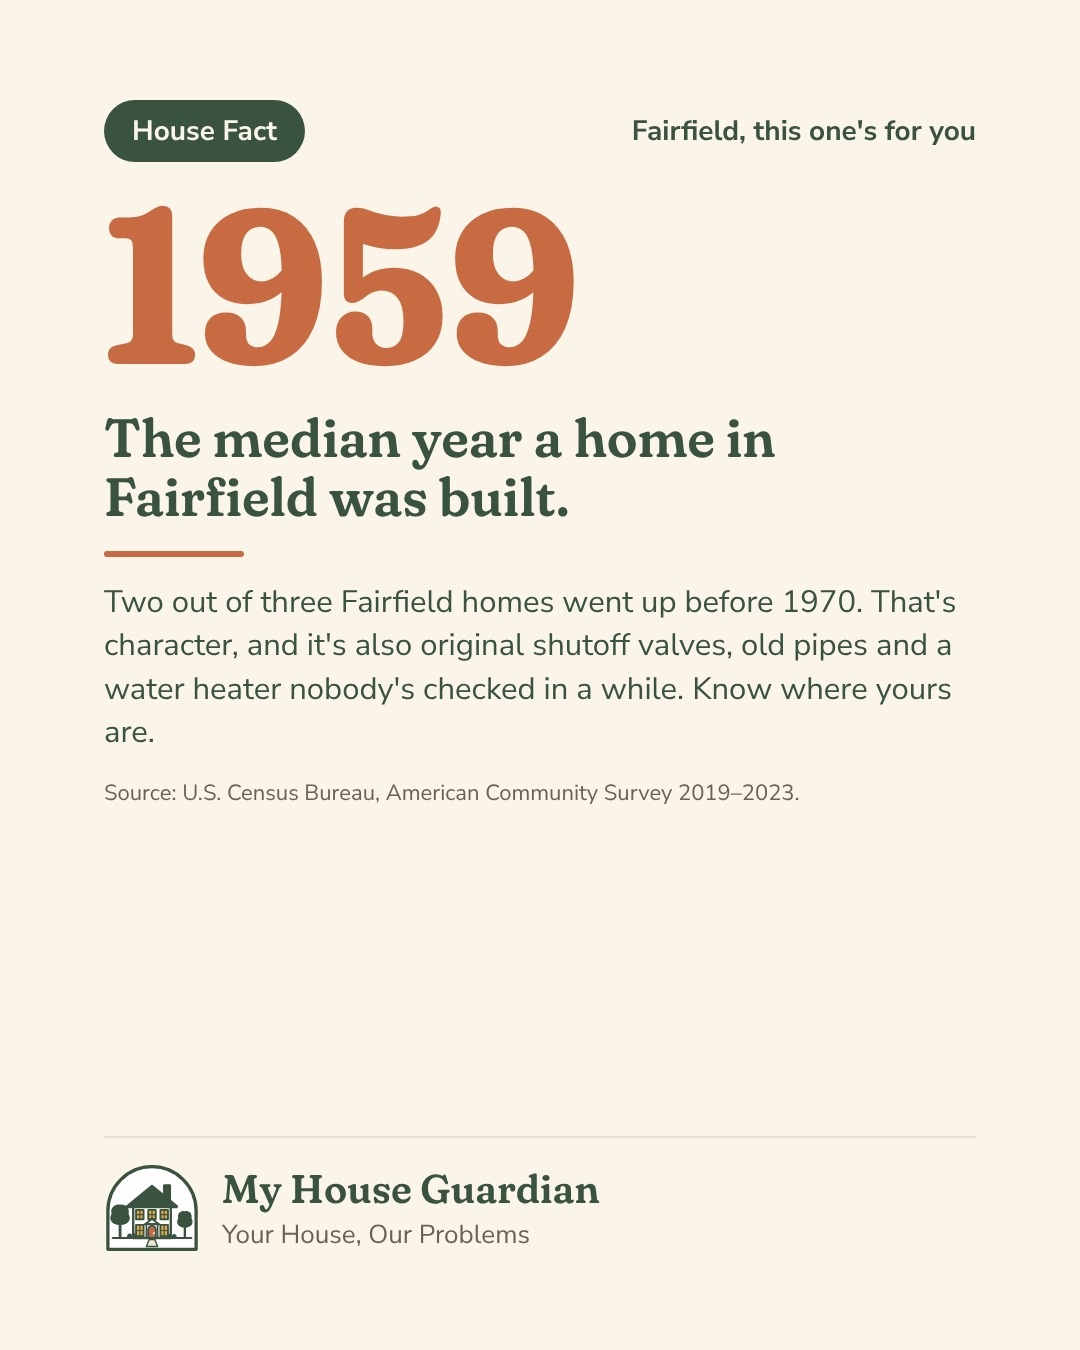
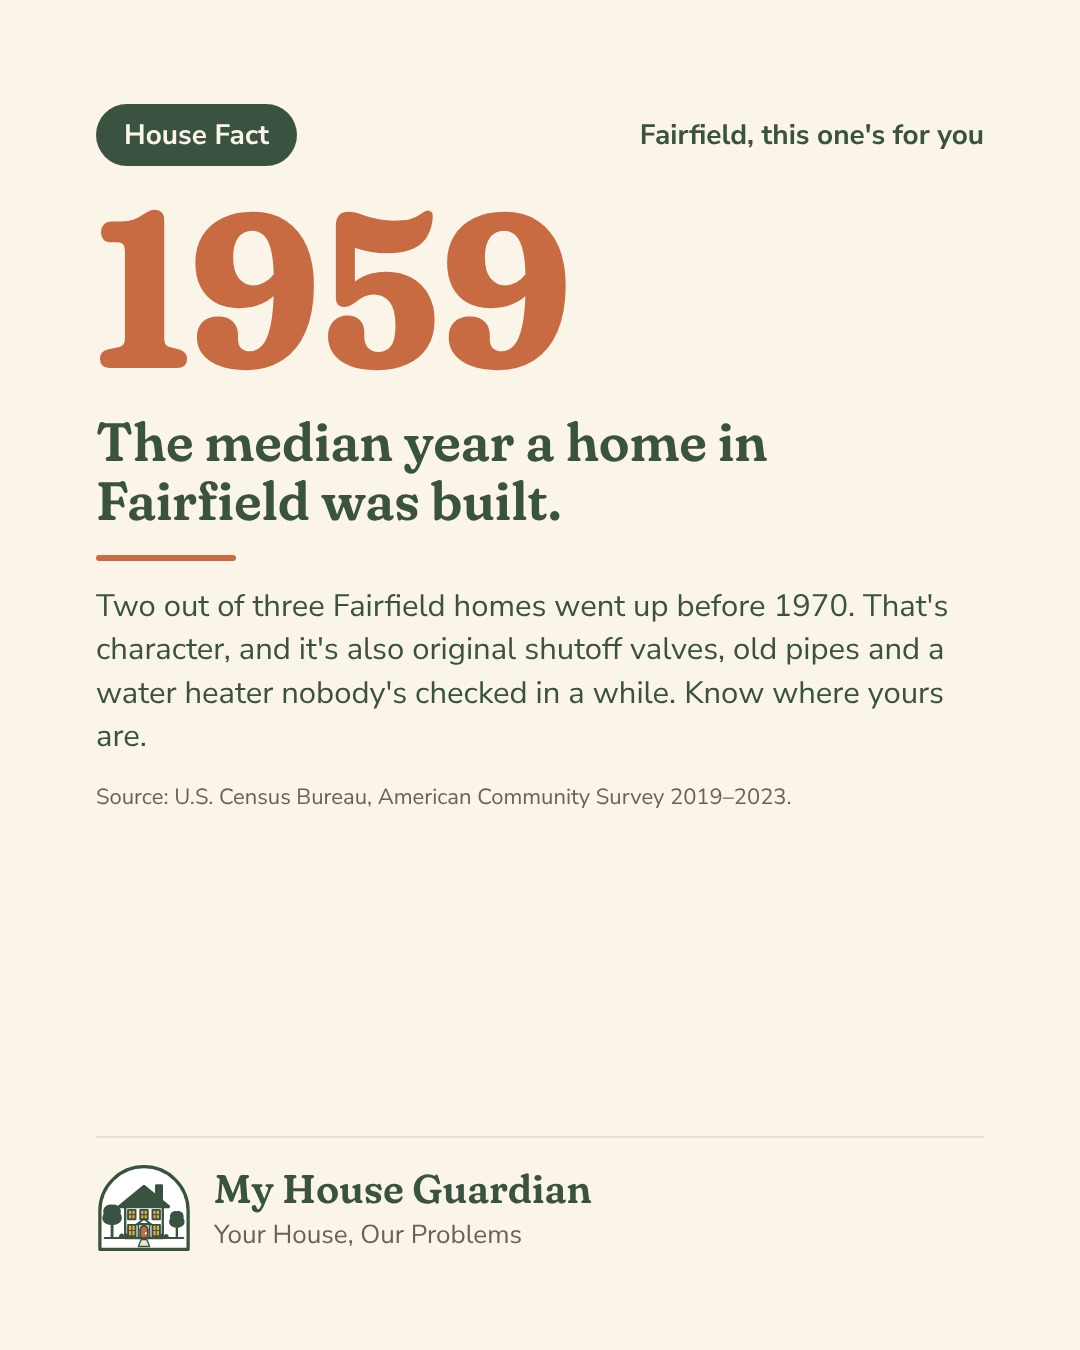
Queue November checklist (Tue 8am) and move clocks-back to Fri 8am; render boards at 4:5 for the API
Claude-Session: https://claude.ai/code/session_01GNg8zrc7XG4Xp8xEfNmAuW

diff --git a/tools/render_artboard.js b/tools/render_artboard.js
@@ -7,13 +7,16 @@ const fs = require('fs');
 const path = require('path');
 
 (async () => {
-  const [src, out, fontsDir] = process.argv.slice(2);
-  if (!src || !out) { console.error('usage: render_artboard.js in.dc.html out.jpg [fontsDir]'); process.exit(1); }
+  // Instagram's API only accepts 4:5 (1080x1350) or wider, so canvas boards drawn at
+  // 3:4 (1080x1440) are rendered at 1350 by default; the layout's flex spacing absorbs it.
+  const [src, out, fontsDir, hArg] = process.argv.slice(2);
+  if (!src || !out) { console.error('usage: render_artboard.js in.dc.html out.jpg [fontsDir] [height=1350]'); process.exit(1); }
   const html = fs.readFileSync(src, 'utf8');
   const helmet = (html.match(/<helmet>([\s\S]*?)<\/helmet>/) || [, ''])[1];
-  const body = html.match(/<\/helmet>([\s\S]*?)<\/x-dc>/)[1];
   const props = JSON.parse((html.match(/data-props='([^']*)'/) || [, '{}'])[1]);
-  const w = (props.$preview || {}).width || 1080, h = (props.$preview || {}).height || 1350;
+  const w = (props.$preview || {}).width || 1080, srcH = (props.$preview || {}).height || 1350;
+  const h = Number(hArg) || 1350;
+  const body = html.match(/<\/helmet>([\s\S]*?)<\/x-dc>/)[1].replace(`height: ${srcH}px`, `height: ${h}px`);
 
   let head = helmet;
   if (fontsDir) {
